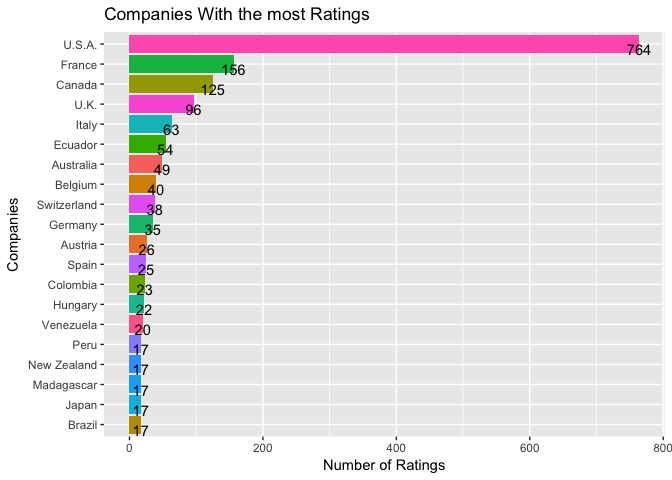
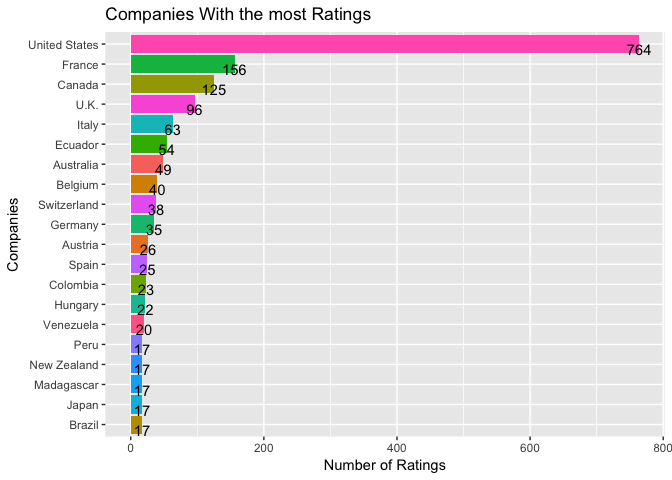
Maps for company location and bean origin

diff --git a/Chocolate_Bar_Ratings.md b/Chocolate_Bar_Ratings.md
@@ -1,6 +1,6 @@
 Chocolate-Bar-Ratings
 ================
-2018-01-26
+2018-01-29
 
 This is a dataset of 1,700 individual chocolate bars. This dataset has information on their regional origin, percentage of cocoa, the variety of chocolate bean used and where the beans were grown. I think it would be fun to use some R code to take a look at what chocolate bar gets the highest rating over the years, what countries has the highest rated bars and what goes into getting a highly rated chocolate bar.
 
@@ -241,9 +241,7 @@ cocoa$bean_origin_country[ cocoa$bean_origin_country == "Domincan Republic"] <- 
 cocoa$bean_origin_country[ cocoa$bean_origin_country == "Trinidad"] <- "Trinidad and Tobago" 
 cocoa$bean_origin_country[ cocoa$bean_origin_country == "Burma"] <- "Myanmar"
 
-
-lat_lon <- read.csv("country_lat_lon.txt")   
-cocoa <- left_join(cocoa, lat_lon, by = c("bean_origin_country" = "Country")) %>% select(-c(Capital))
+cocoa$company_location<-gsub("U.S.A.","United States",cocoa$company_location)
 ```
 
 Ok now lets see a distribution of the Ratings.
@@ -310,7 +308,32 @@ ggplot(n3, aes(x = reorder(company_location, count),
 
 ![](Chocolate_Bar_Ratings_files/figure-markdown_github-ascii_identifiers/unnamed-chunk-10-1.png)
 
-That is interesting the United States is while represnted in this dataset. I thought Switzerland, Germany and Belgium would have more chocolate bars rated.
+That is interesting the United States is while represnted in this dataset. I thought Switzerland, Germany and Belgium would have more chocolate bars rated. Lets take a quick look at a map of these locations.
+
+``` r
+#Import dataset of latitudes and longitudes for world capitals 
+lat_lon <- read.csv("country_lat_lon.txt") 
+
+company_map <- left_join(cocoa, lat_lon, by = c("company_location" = "Country")) %>% select(-c(Capital))
+
+n4 <- company_map %>% filter(!is.na(company_location), !is.na(Latitude)) %>%
+                      group_by(company_location, Latitude, Longitude) %>% 
+                      summarise(count = n()) %>% 
+                      arrange(desc(count)) 
+
+# Get world map
+world_map <- map_data("world")
+
+# Draw the map and add the data points in myData
+
+ggplot() +
+geom_path(data = world_map, aes(x = long, y = lat, group = group)) +
+geom_point(data = n4, aes(x = Longitude, y = Latitude, size = count), color = "red") +
+ggtitle("Locations of Chocolate Companies") +
+theme(plot.title=element_text(size=20))
+```
+
+![](Chocolate_Bar_Ratings_files/figure-markdown_github-ascii_identifiers/unnamed-chunk-11-1.png)
 
 Cocoa beans are growen in 98 different counties in this dataset the top 20 countries represented are.
 
@@ -330,15 +353,21 @@ ggplot(n4, aes(x = reorder(bean_origin_country, count),
                       coord_flip()
 ```
 
-![](Chocolate_Bar_Ratings_files/figure-markdown_github-ascii_identifiers/unnamed-chunk-12-1.png)
+![](Chocolate_Bar_Ratings_files/figure-markdown_github-ascii_identifiers/unnamed-chunk-13-1.png)
 
 8 of the top 10 are in South & central America. I have a dataset that I can join to this one that has the Latitudes and logitudes for the capital of each country around the world. THis will allow me to map some of this data.
 
 ``` r
-n5 <- cocoa %>% filter(!is.na(bean_origin_country), !is.na(Latitude)) %>%
-                group_by(bean_origin_country, Latitude, Longitude) %>% 
-                summarise(count = n()) %>% 
-                arrange(desc(count)) 
+#Import dataset of latitudes and longitudes for world capitals 
+lat_lon <- read.csv("country_lat_lon.txt") 
+
+origin_map <- left_join(cocoa, lat_lon, by = c("bean_origin_country" = "Country")) %>% select(-c(Capital))
+
+
+n5 <- origin_map %>% filter(!is.na(bean_origin_country), !is.na(Latitude)) %>%
+                     group_by(bean_origin_country, Latitude, Longitude) %>% 
+                     summarise(count = n()) %>% 
+                     arrange(desc(count)) 
 
 # Get world map
 world_map <- map_data("world")
@@ -347,7 +376,9 @@ world_map <- map_data("world")
 
 ggplot() +
 geom_path(data = world_map, aes(x = long, y = lat, group = group)) +
-geom_point(data = n5, aes(x = Longitude, y = Latitude, size = count), color = "red")
+geom_point(data = n5, aes(x = Longitude, y = Latitude, size = count), color = "red") +
+ggtitle("Origin of Cocoa Beans") +
+theme(plot.title=element_text(size=20))
 ```
 
-![](Chocolate_Bar_Ratings_files/figure-markdown_github-ascii_identifiers/unnamed-chunk-13-1.png)
+![](Chocolate_Bar_Ratings_files/figure-markdown_github-ascii_identifiers/unnamed-chunk-14-1.png)
